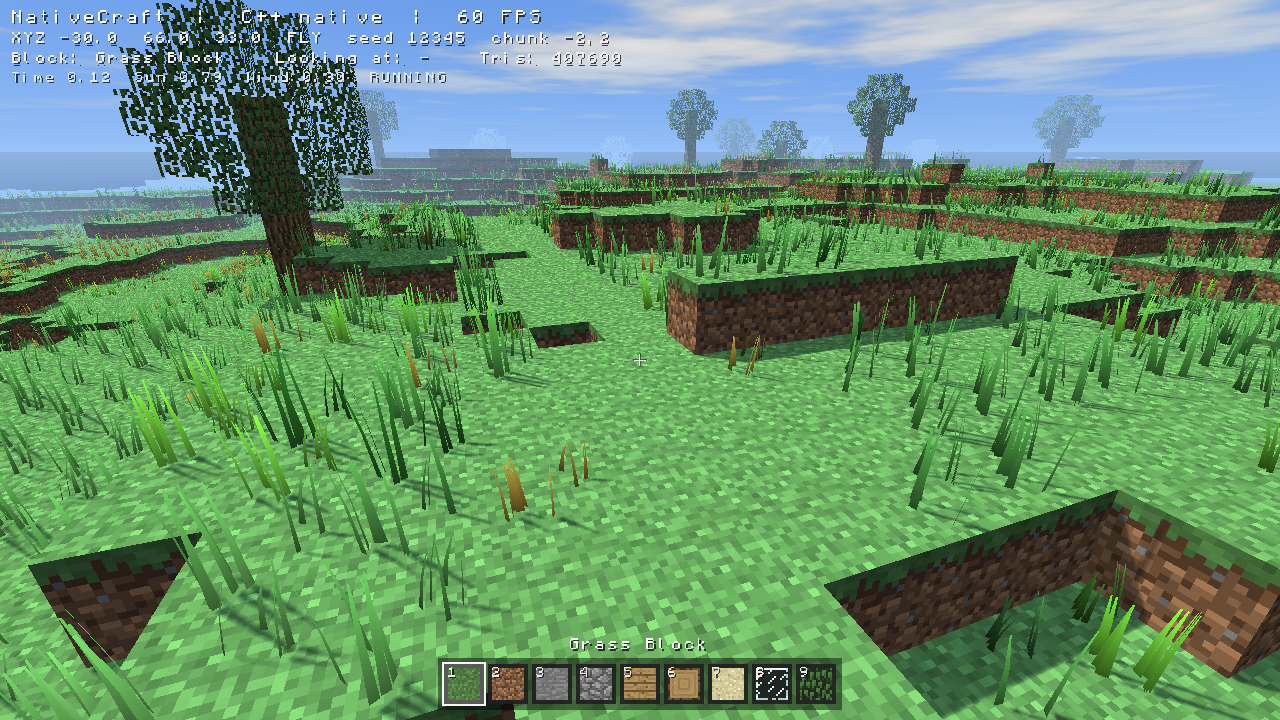
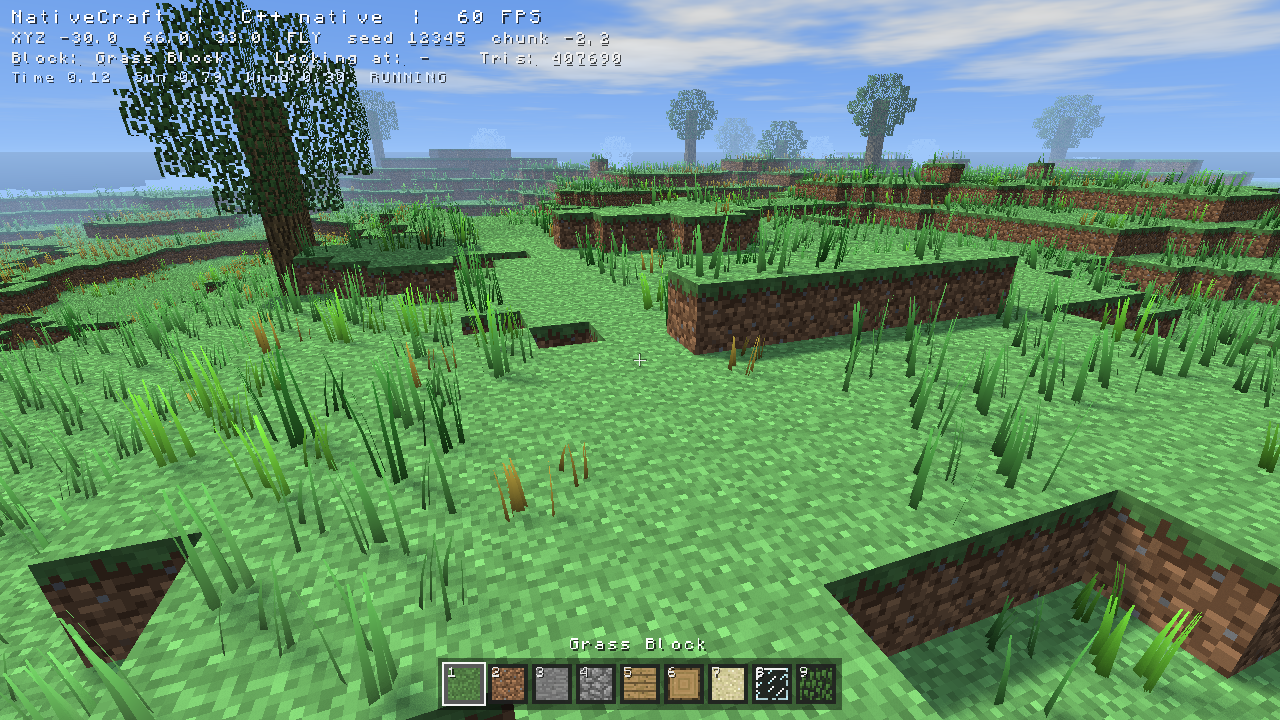
Soften shadows with rotated Poisson PCF

diff --git a/src/render/WorldRenderer.cpp b/src/render/WorldRenderer.cpp
@@ -162,6 +162,17 @@ uniform float uShadowStrength;
 
 out vec4 FragColor;
 
+const vec2 kPoissonDisk[16] = vec2[](
+    vec2(-0.94201624, -0.39906216), vec2(0.94558609, -0.76890725),
+    vec2(-0.09418410, -0.92938870), vec2(0.34495938, 0.29387760),
+    vec2(-0.91588581, 0.45771432), vec2(-0.81544232, -0.87912464),
+    vec2(-0.38277543, 0.27676845), vec2(0.97484398, 0.75648379),
+    vec2(0.44323325, -0.97511554), vec2(0.53742981, -0.47373420),
+    vec2(-0.26496911, -0.41893023), vec2(0.79197514, 0.19090188),
+    vec2(-0.24188840, 0.99706507), vec2(-0.81409955, 0.91437590),
+    vec2(0.19984126, 0.78641367), vec2(0.14383161, -0.14100790)
+);
+
 float shadowFactorNear(vec4 shadowCoord, vec3 normal) {
     if (shadowCoord.w <= 0.0) {
         return 1.0;
@@ -173,14 +184,17 @@ float shadowFactorNear(vec4 shadowCoord, vec3 normal) {
     }
     float bias = max(0.00025 * (1.0 - max(dot(normal, uSunDir), 0.0)), 0.00008);
     vec2 texel = 1.0 / vec2(textureSize(uShadowMapNear, 0));
+    float angle = fract(sin(dot(gl_FragCoord.xy, vec2(12.9898, 78.233))) * 43758.5453)
+                * 6.28318530718;
+    mat2 rotation = mat2(cos(angle), -sin(angle), sin(angle), cos(angle));
+    vec2 radius = texel * 6.0;
     float sum = 0.0;
-    for (int x = -1; x <= 1; ++x) {
-        for (int y = -1; y <= 1; ++y) {
-            sum += texture(uShadowMapNear,
-                           vec3(projected.xy + vec2(x, y) * texel, projected.z - bias));
-        }
+    for (int i = 0; i < 16; ++i) {
+        sum += texture(uShadowMapNear,
+                       vec3(projected.xy + rotation * kPoissonDisk[i] * radius,
+                            projected.z - bias));
     }
-    return sum / 9.0;
+    return sum / 16.0;
 }
 
 float shadowFactorFar(vec4 shadowCoord, vec3 normal) {
@@ -194,14 +208,17 @@ float shadowFactorFar(vec4 shadowCoord, vec3 normal) {
     }
     float bias = max(0.0005 * (1.0 - max(dot(normal, uSunDir), 0.0)), 0.00015);
     vec2 texel = 1.0 / vec2(textureSize(uShadowMapFar, 0));
+    float angle = fract(sin(dot(gl_FragCoord.xy, vec2(12.9898, 78.233))) * 43758.5453)
+                * 6.28318530718;
+    mat2 rotation = mat2(cos(angle), -sin(angle), sin(angle), cos(angle));
+    vec2 radius = texel * 8.0;
     float sum = 0.0;
-    for (int x = -1; x <= 1; ++x) {
-        for (int y = -1; y <= 1; ++y) {
-            sum += texture(uShadowMapFar,
-                           vec3(projected.xy + vec2(x, y) * texel, projected.z - bias));
-        }
+    for (int i = 0; i < 16; ++i) {
+        sum += texture(uShadowMapFar,
+                       vec3(projected.xy + rotation * kPoissonDisk[i] * radius,
+                            projected.z - bias));
     }
-    return sum / 9.0;
+    return sum / 16.0;
 }
 
 void main() {
@@ -322,6 +339,19 @@ uniform float uFogEnd;
 uniform float uShadowStrength;
 uniform float uTime;
 
+const vec2 kPoissonDisk[16] = vec2[](
+    vec2(-0.94201624, -0.39906216), vec2(0.94558609, -0.76890725),
+    vec2(-0.09418410, -0.92938870), vec2(0.34495938, 0.29387760),
+    vec2(-0.91588581, 0.45771432), vec2(-0.81544232, -0.87912464),
+    vec2(-0.38277543, 0.27676845), vec2(0.97484398, 0.75648379),
+    vec2(0.44323325, -0.97511554), vec2(0.53742981, -0.47373420),
+    vec2(-0.26496911, -0.41893023), vec2(0.79197514, 0.19090188),
+    vec2(-0.24188840, 0.99706507), vec2(-0.81409955, 0.91437590),
+    vec2(0.19984126, 0.78641367), vec2(0.14383161, -0.14100790)
+);
+
+
+
 out vec4 FragColor;
 
 float shadowFactor(vec4 shadowCoord, vec3 normal) {
@@ -333,16 +363,19 @@ float shadowFactor(vec4 shadowCoord, vec3 normal) {
         || projected.y < 0.0 || projected.y > 1.0) {
         return 1.0;
     }
-    float bias = max(0.0008 * (1.0 - max(dot(normal, uSunDir), 0.0)), 0.0002);
+    float bias = max(0.0006 * (1.0 - max(dot(normal, uSunDir), 0.0)), 0.00015);
     vec2 texel = 1.0 / vec2(textureSize(uShadowMap, 0));
+    float angle = fract(sin(dot(gl_FragCoord.xy, vec2(12.9898, 78.233))) * 43758.5453)
+                * 6.28318530718;
+    mat2 rotation = mat2(cos(angle), -sin(angle), sin(angle), cos(angle));
+    vec2 radius = texel * 6.0;
     float sum = 0.0;
-    for (int x = -1; x <= 1; ++x) {
-        for (int y = -1; y <= 1; ++y) {
-            sum += texture(uShadowMap,
-                           vec3(projected.xy + vec2(x, y) * texel, projected.z - bias));
-        }
+    for (int i = 0; i < 16; ++i) {
+        sum += texture(uShadowMap,
+                       vec3(projected.xy + rotation * kPoissonDisk[i] * radius,
+                            projected.z - bias));
     }
-    return sum / 9.0;
+    return sum / 16.0;
 }
 
 void main() {

diff --git a/docs/DEVELOPMENT.md b/docs/DEVELOPMENT.md
@@ -84,7 +84,7 @@ The grass block uses a composited side texture built from `grass_side` and a gre
 
 Each frame runs these passes:
 
-1. **Shadow maps.** Two cascades are rendered from the sun direction. The far cascade is 4096x4096 and covers a 130-block radius around the player with opaque geometry only. The near cascade is 4096x4096, covers 22 blocks, and includes grass blades so grass casts sharp shadows. Each cascade has its own normal offset and bias. Both are cached and re-rendered only when the sun, focus, or near-cascade wind animation changes. Sampling uses hardware PCF; the 18-22 block transition takes the darker of the two cascades to avoid sunlight leaks.
+1. **Shadow maps.** Two cascades are rendered from the sun direction. The far cascade is 4096x4096 and covers a 130-block radius around the player with opaque geometry only. The near cascade is 4096x4096, covers 22 blocks, and includes grass blades so grass casts shadows. Each cascade has its own normal offset and bias. Both are cached and re-rendered only when the sun, focus, or near-cascade wind animation changes. Sampling uses a 16-tap rotated Poisson-disk PCF kernel for soft edges; the 18-22 block transition takes the darker of the two cascades to avoid sunlight leaks.
 2. **Reflection.** The scene is rendered from a camera mirrored across the water plane into an offscreen color/depth target. The sky and opaque geometry are included. Geometry below the water plane is clipped.
 3. **Sky.** A fullscreen triangle computes sky gradient, sun, moon, stars, and moving clouds from the inverse view-projection matrix.
 4. **Opaque world.** Block textures are lit by sun color, ambient sky/ground, and the shadow map.
@@ -100,7 +100,7 @@ All world passes use frustum culling against cached chunk bounds.
 - Sun direction and color are derived from `timeOfDay` in `render/Environment.cpp`.
 - Sky zenith, horizon, fog, and ambient colors interpolate between day and night values.
 - The world shader uses `ambient = mix(ambientGround, ambientSky, normal.y * 0.5 + 0.5)` and `light = ambient + sunColor * max(dot(normal, sunDir), 0) * shadow`.
-- Shadows use a 3x3 hardware PCF kernel with a slope-scaled bias and normal offset.
+- Shadows use a 16-tap rotated Poisson-disk PCF kernel with a slope-scaled bias and normal offset.
 - The near shadow cascade refreshes at 10 Hz so wind-driven grass shadows animate.
 - Time advances at `--time-speed` per second and can be paused with `T`.
 - Wind direction and strength are computed in `Game::update` and passed to the grass shader.

diff --git a/docs/INSTALL.md b/docs/INSTALL.md
@@ -129,7 +129,7 @@ Modified chunks are written to `saves/<seed>/chunks/<x>_<z>.nc`. Unmodified chun
 
 ### Performance
 
-Shadows use a 4096 near cascade (22 blocks, includes grass) and a 4096 far cascade (130 blocks, covering the render distance) with hardware PCF. The near cascade refreshes ten times per second; the far cascade is cached. Water reflections render the scene a second time at the window resolution. Chunk generation and disk loading run on a worker pool. Mesh construction is limited to two chunks per frame on the render thread. The default render radius of 6 chunks keeps more than 200 chunks loaded and about 400,000 triangles in view. Reduce `--render-distance`, `--grass-distance`, and `--threads` on slower CPUs or GPUs.
+Shadows use a 4096 near cascade (22 blocks, includes grass) and a 4096 far cascade (130 blocks, covering the render distance) with a 16-tap rotated Poisson PCF kernel for soft edges. The near cascade refreshes ten times per second; the far cascade is cached. Water reflections render the scene a second time at the window resolution. Chunk generation and disk loading run on a worker pool. Mesh construction is limited to two chunks per frame on the render thread. The default render radius of 6 chunks keeps more than 200 chunks loaded and about 400,000 triangles in view. Reduce `--render-distance`, `--grass-distance`, and `--threads` on slower CPUs or GPUs.
 
 ### Wayland
 

diff --git a/README.md b/README.md
@@ -96,7 +96,7 @@ Useful options:
 - Chunk unloading and binary persistence for modified chunks.
 - Multiple procedural grass types: tall grass, meadow grass, dry grass, and fern with distinct colors, blade counts, and heights.
 - Grass reacts to changing wind direction, gust strength, and the player's position.
-- Two-cascade directional shadows: 4096 near cascade for sharp grass and terrain shadows plus a 4096 far cascade covering the render distance, both with hardware PCF and cached updates.
+- Two-cascade directional shadows: 4096 near cascade for sharp grass and terrain shadows plus a 4096 far cascade covering the render distance, both with a 16-tap rotated Poisson PCF kernel for soft shadow edges, and cached updates.
 - Separate near/far normal offsets and bias values reduce sunlight leaks in dark areas.
 - Breakable grass with a raycast hitbox: aim and left-click to remove it, or right-click to replace it with a block.
 - Procedural moving clouds, sun, moon, and stars.
